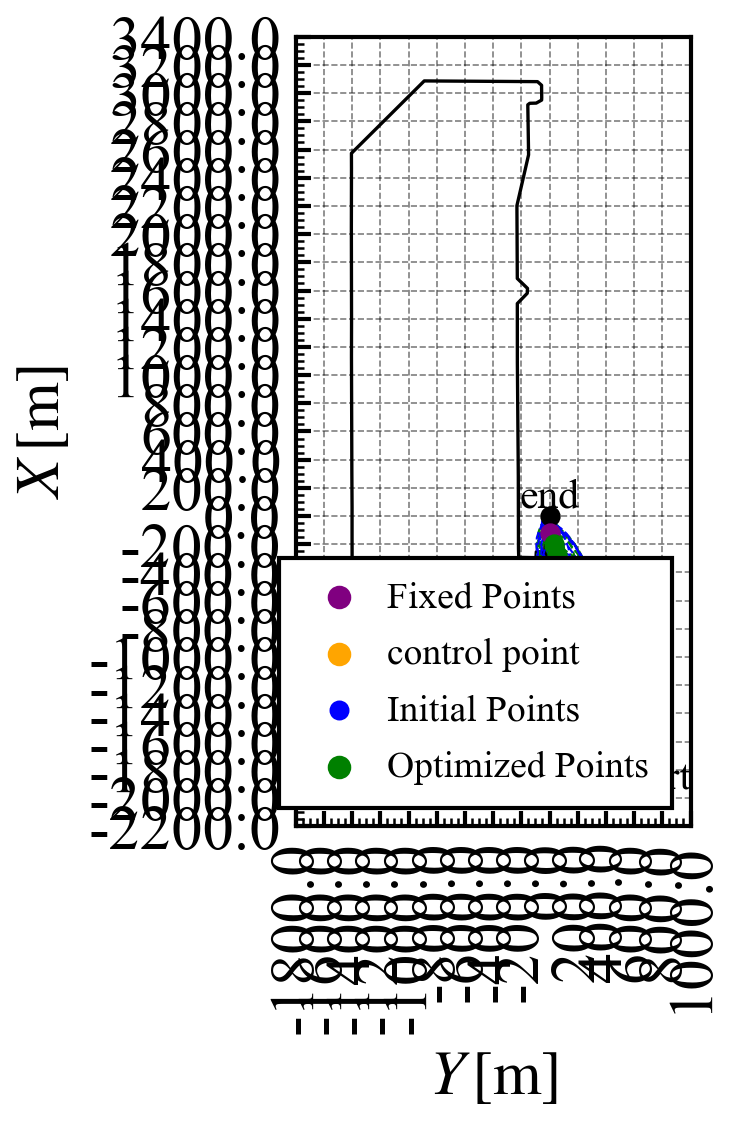
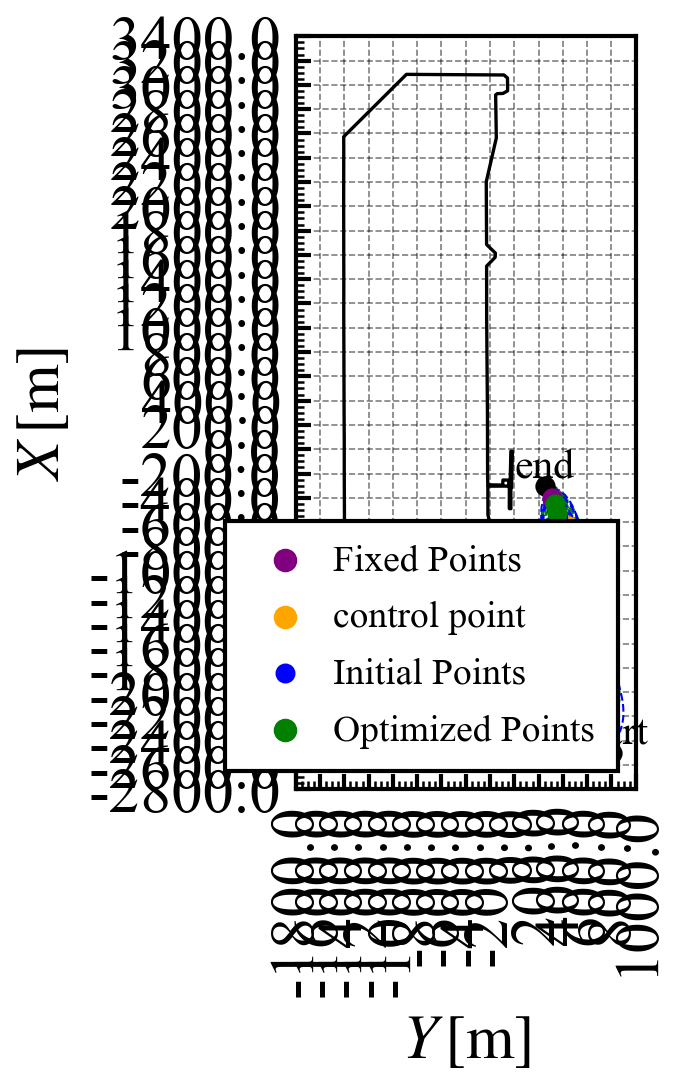
新しいデータ作ろうと思ったけどcsvなかった

Changed region(s): [[0.1237, 0.0, 0.9897, 1.0], [0.0, 0.3041, 0.0928, 0.4562]]

diff --git a/program/path_planning/CMA-ES.py b/program/path_planning/CMA-ES.py
@@ -68,7 +68,7 @@ class InitPathAlgo(StrEnum):
 class Settings:
     def __init__(self):
         # port
-        self.port_number: int = 10
+        self.port_number: int = 11
          # 0: Osaka_1A, 1: Tokyo_2C, 2: Yokkaichi_2B, 3: Else_1, 4: Osaka_1B
          # 5: Else_2, 6: Kashima, 7: Aomori, 8: Hachinohe, 9: Shimizu
          # 10: Tomakomai, 11: KIX
@@ -1288,13 +1288,13 @@ class PathPlanning:
             },
             11: {
                 "name": "KIX",
-                "start": [-2000, 750],
-                "end": [0, 0],
-                "psi_start": -30,
-                "psi_end": 0,
+                "start": [-2500, 800],
+                "end": [-300, 250],
+                "psi_start": -10,
+                "psi_end": -30,
                 "berth_type": 2,
                 "ver_range": [-2500, 1000],
-                "hor_range": [-2500, 2500],
+                "hor_range": [-2000, 2000],
             },
         }
         return dictionary_of_port[num]
